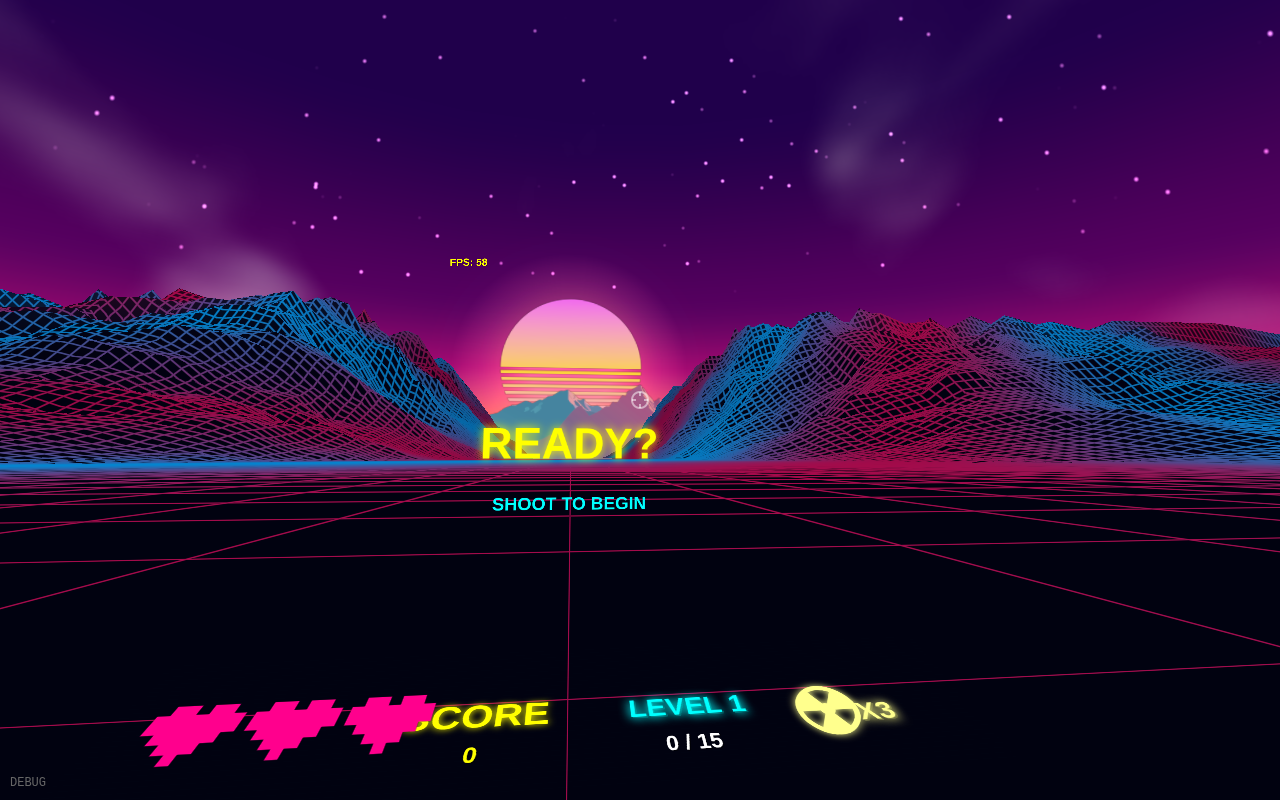
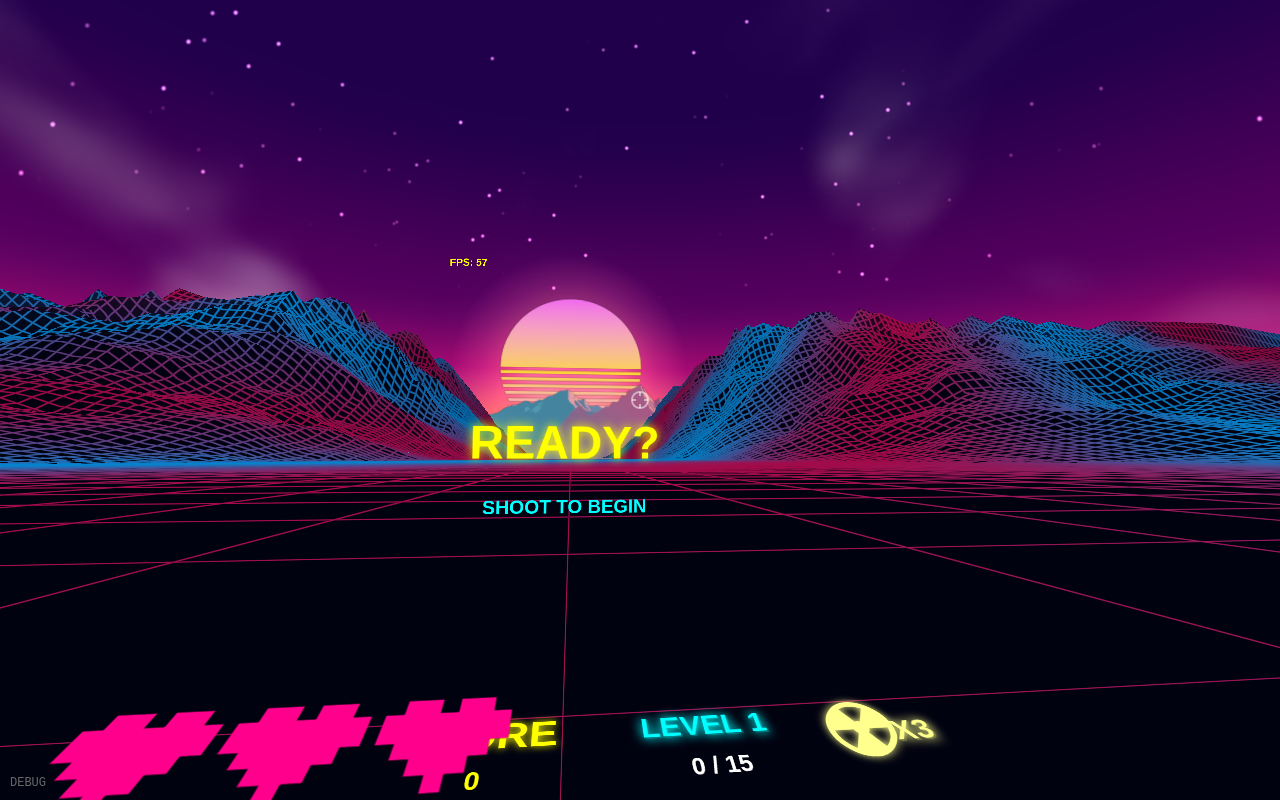
layout: apply Graeme's floor HUD v3 - hearts 1.9x0.35, wider BG, position tweaks, editor defaults synced

diff --git a/hud.js b/hud.js
@@ -1127,48 +1127,48 @@ function createHUDElements() {
   // Lives (hearts) - left side on floor
   // #19: Hearts aligned with TOP of SCORE and LEVEL X titles
   // Layout: Spread horizontally to avoid overlap
-  const heartsGeo = new THREE.PlaneGeometry(1.2, 0.24);
+  const heartsGeo = new THREE.PlaneGeometry(1.9, 0.35);
   const heartsMat = new THREE.MeshBasicMaterial({ transparent: true, depthTest: true, depthWrite: false, side: THREE.DoubleSide });
   heartsSprite = new THREE.Mesh(heartsGeo, heartsMat);
-  heartsSprite.position.set(-1.48, 0.45, 0);  // Left, top row
+  heartsSprite.position.set(-1.34, 0.45, 0);  // Left, top row
   heartsSprite.renderOrder = 999;
   hudGroup.add(heartsSprite);
 
   // SCORE - center-left on floor with title above
   // Layout: Spread from hearts, number centered under SCORE title
   scoreSprite = makeSprite('0', { fontSize: 75, color: '#ffff00', shadow: true, scale: 0.45 });
-  scoreSprite.position.set(-0.5, 0.2, 0);  // Centered under SCORE title
+  scoreSprite.position.set(-0.42, 0.2, 0);  // Centered under SCORE title
   hudGroup.add(scoreSprite);
 
   // SCORE title - above score in yellow same style as level
   scoreTitleSprite = makeSprite('SCORE', { fontSize: 72, color: '#ffff00', glow: true, glowColor: '#ffff00', scale: 0.45 });
-  scoreTitleSprite.position.set(-0.5, 0.45, 0);  // Top row
+  scoreTitleSprite.position.set(-0.42, 0.45, 0);  // Top row
   hudGroup.add(scoreTitleSprite);
 
   // Kill counter — below LEVEL display
   // Layout: Center-right, below level
   killCountSprite = makeSprite('0/0', { fontSize: 75, color: '#ffffff', shadow: true, scale: 0.45 });
-  killCountSprite.position.set(0.682, 0.2, 0);  // Center-right, second row
+  killCountSprite.position.set(0.8, 0.2, 0);  // Center-right, second row
   hudGroup.add(killCountSprite);
 
   // Level indicator — above kill counter
   // Layout: Center-right, top row
   levelSprite = makeSprite('LEVEL 1', { fontSize: 72, color: '#00ffff', glow: true, scale: 0.45 });
-  levelSprite.position.set(0.69, 0.45, 0);  // Center-right, top row
+  levelSprite.position.set(0.76, 0.45, 0);  // Center-right, top row
   hudGroup.add(levelSprite);
 
   // Nuke counter — far right, top row; emoji 2x size, count text normal
   nukeEmojiSprite = makeSprite('☢', { fontSize: 144, color: '#ffff44', glow: true, glowColor: '#ffff44', scale: 0.8 });
-  nukeEmojiSprite.position.set(1.514, 0.34, 0);  // Far right
+  nukeEmojiSprite.position.set(1.62, 0.34, 0);  // Far right
   hudGroup.add(nukeEmojiSprite);
   nukeCountSprite = makeSprite('X3', { fontSize: 72, color: '#ffff44', glow: true, glowColor: '#ffff44', scale: 0.35 });
-  nukeCountSprite.position.set(1.795, 0.34, 0);  // Far right
+  nukeCountSprite.position.set(1.9, 0.34, 0);  // Far right
   hudGroup.add(nukeCountSprite);
 
   // Accuracy bonus — center, just below main HUD row
   // Y=-0.45 keeps it close to the SCORE/LEVEL row (Y=0.3) without overlap
   comboSprite = makeSprite('1x', { fontSize: 40, color: '#ff8800', shadow: true, scale: 0.18 });
-  comboSprite.position.set(-1.56, 0.22, 0);  // Left side, below hearts
+  comboSprite.position.set(-1.54, 0.22, 0);  // Left side, below hearts
   comboSprite.visible = false;
   hudGroup.add(comboSprite);
 
@@ -1178,7 +1178,7 @@ function createHUDElements() {
   cooldownGeo.translate(0.275, 0, 0); // shift right by half width
   const cooldownMat = new THREE.MeshBasicMaterial({ color: 0xff8800, transparent: true, opacity: 0.8 });
   comboCooldownSprite = new THREE.Mesh(cooldownGeo, cooldownMat);
-  comboCooldownSprite.position.set(-1.54, 0.16, 0);  // Left side, below combo text
+  comboCooldownSprite.position.set(-1.59, 0.16, 0);  // Left side, below combo text
   comboCooldownSprite.visible = false;
   hudGroup.add(comboCooldownSprite);
 }
@@ -1358,7 +1358,7 @@ export function updateHUD(gameState) {
     // Cache geometry by maxHealth to avoid recreating on every frame
     if (heartsSprite.userData._heartsMaxHP !== gameState.maxHealth) {
       heartsSprite.userData._heartsMaxHP = gameState.maxHealth;
-      heartsSprite.geometry = getHudGeo(ha * 0.48, 0.48);
+      heartsSprite.geometry = getHudGeo(ha * 0.7, 0.7);
     }
   }
 

diff --git a/tools/floor-hud-editor.html b/tools/floor-hud-editor.html
@@ -101,17 +101,17 @@
     // type: 'text' = makeSprite (fontSize + scale), 'rect' = PlaneGeometry(w,h)
     // 'hearts' = special: PlaneGeometry(1.2, 0.24) with pixel heart texture
     const DEFS = [
-        { id:'hud_bg', name:'HUD Background', type:'rect', color:0x111122, w:4, h:1, x:0, y:0.26, z:0, opacity:0.3 },
-        { id:'hearts', name:'Hearts (Lives)', type:'hearts', color:0xcc3333, w:1.2, h:0.24, x:-1.48, y:0.45, z:0.01 },
-        { id:'score_title', name:'SCORE title', type:'text', text:'SCORE', color:0xcccc33, fontSize:72, scale:0.45, glow:true, x:-0.5, y:0.45, z:0.01 },
-        { id:'score_num', name:'Score number', type:'text', text:'100000', color:0xcccc33, fontSize:75, scale:0.45, x:-0.5, y:0.2, z:0.01 },
-        { id:'level', name:'LEVEL', type:'text', text:'LEVEL 20', color:0x00cccc, fontSize:72, scale:0.45, glow:true, x:0.69, y:0.45, z:0.01 },
-        { id:'kills', name:'Kill count', type:'text', text:'123/123', color:0xffffff, fontSize:75, scale:0.45, x:0.682, y:0.2, z:0.01 },
-        { id:'nuke_icon', name:'☢ Nuke', type:'text', text:'☢', color:0xcccc33, fontSize:144, scale:0.8, glow:true, x:1.514, y:0.34, z:0.01 },
-        { id:'nuke_count', name:'Nuke count', type:'text', text:'X3', color:0xcccc33, fontSize:72, scale:0.35, glow:true, x:1.795, y:0.34, z:0.01 },
-        { id:'combo_text', name:'Accuracy Bonus', type:'text', text:'4.5X ACCURACY BONUS', color:0xff8800, fontSize:40, scale:0.18, x:-1.56, y:0.22, z:0.01 },
-        { id:'combo_bar', name:'Cooldown bar', type:'rect', color:0xff8800, w:0.55, h:0.05, x:-1.54, y:0.16, z:0.01, opacity:0.8 },
-        { id:'scanline', name:'Scan line', type:'rect', color:0x33ff66, w:4, h:0.015, x:0, y:0, z:0.02, opacity:0.5 },
+        { id:'hud_bg', name:'HUD Background', type:'rect', color:0x111122, w:4.7, h:1, x:0, y:0.26, z:0, opacity:0.3 },
+        { id:'hearts', name:'Hearts (Lives)', type:'hearts', color:0xcc3333, w:1.9, h:0.35, x:-1.34, y:0.45, z:0.01 },
+        { id:'score_title', name:'SCORE title', type:'text', text:'SCORE', color:0xcccc33, fontSize:72, scale:0.45, glow:true, x:-0.42, y:0.45, z:0.01 },
+        { id:'score_num', name:'Score number', type:'text', text:'100000', color:0xcccc33, fontSize:75, scale:0.45, x:-0.42, y:0.2, z:0.01 },
+        { id:'level', name:'LEVEL', type:'text', text:'LEVEL 20', color:0x00cccc, fontSize:72, scale:0.45, glow:true, x:0.76, y:0.45, z:0.01 },
+        { id:'kills', name:'Kill count', type:'text', text:'123/123', color:0xffffff, fontSize:75, scale:0.45, x:0.8, y:0.2, z:0.01 },
+        { id:'nuke_icon', name:'☢ Nuke', type:'text', text:'☢', color:0xcccc33, fontSize:144, scale:0.8, glow:true, x:1.62, y:0.34, z:0.01 },
+        { id:'nuke_count', name:'Nuke count', type:'text', text:'X3', color:0xcccc33, fontSize:72, scale:0.35, glow:true, x:1.9, y:0.34, z:0.01 },
+        { id:'combo_text', name:'Accuracy Bonus', type:'text', text:'4.5X ACCURACY BONUS', color:0xff8800, fontSize:40, scale:0.18, x:-1.54, y:0.22, z:0.01 },
+        { id:'combo_bar', name:'Cooldown bar', type:'rect', color:0xff8800, w:0.55, h:0.05, x:-1.59, y:0.16, z:0.01, opacity:0.8 },
+        { id:'scanline', name:'Scan line', type:'rect', color:0x33ff66, w:4.7, h:0.015, x:0, y:0, z:0.02, opacity:0.5 },
     ];
 
     const els = {};
